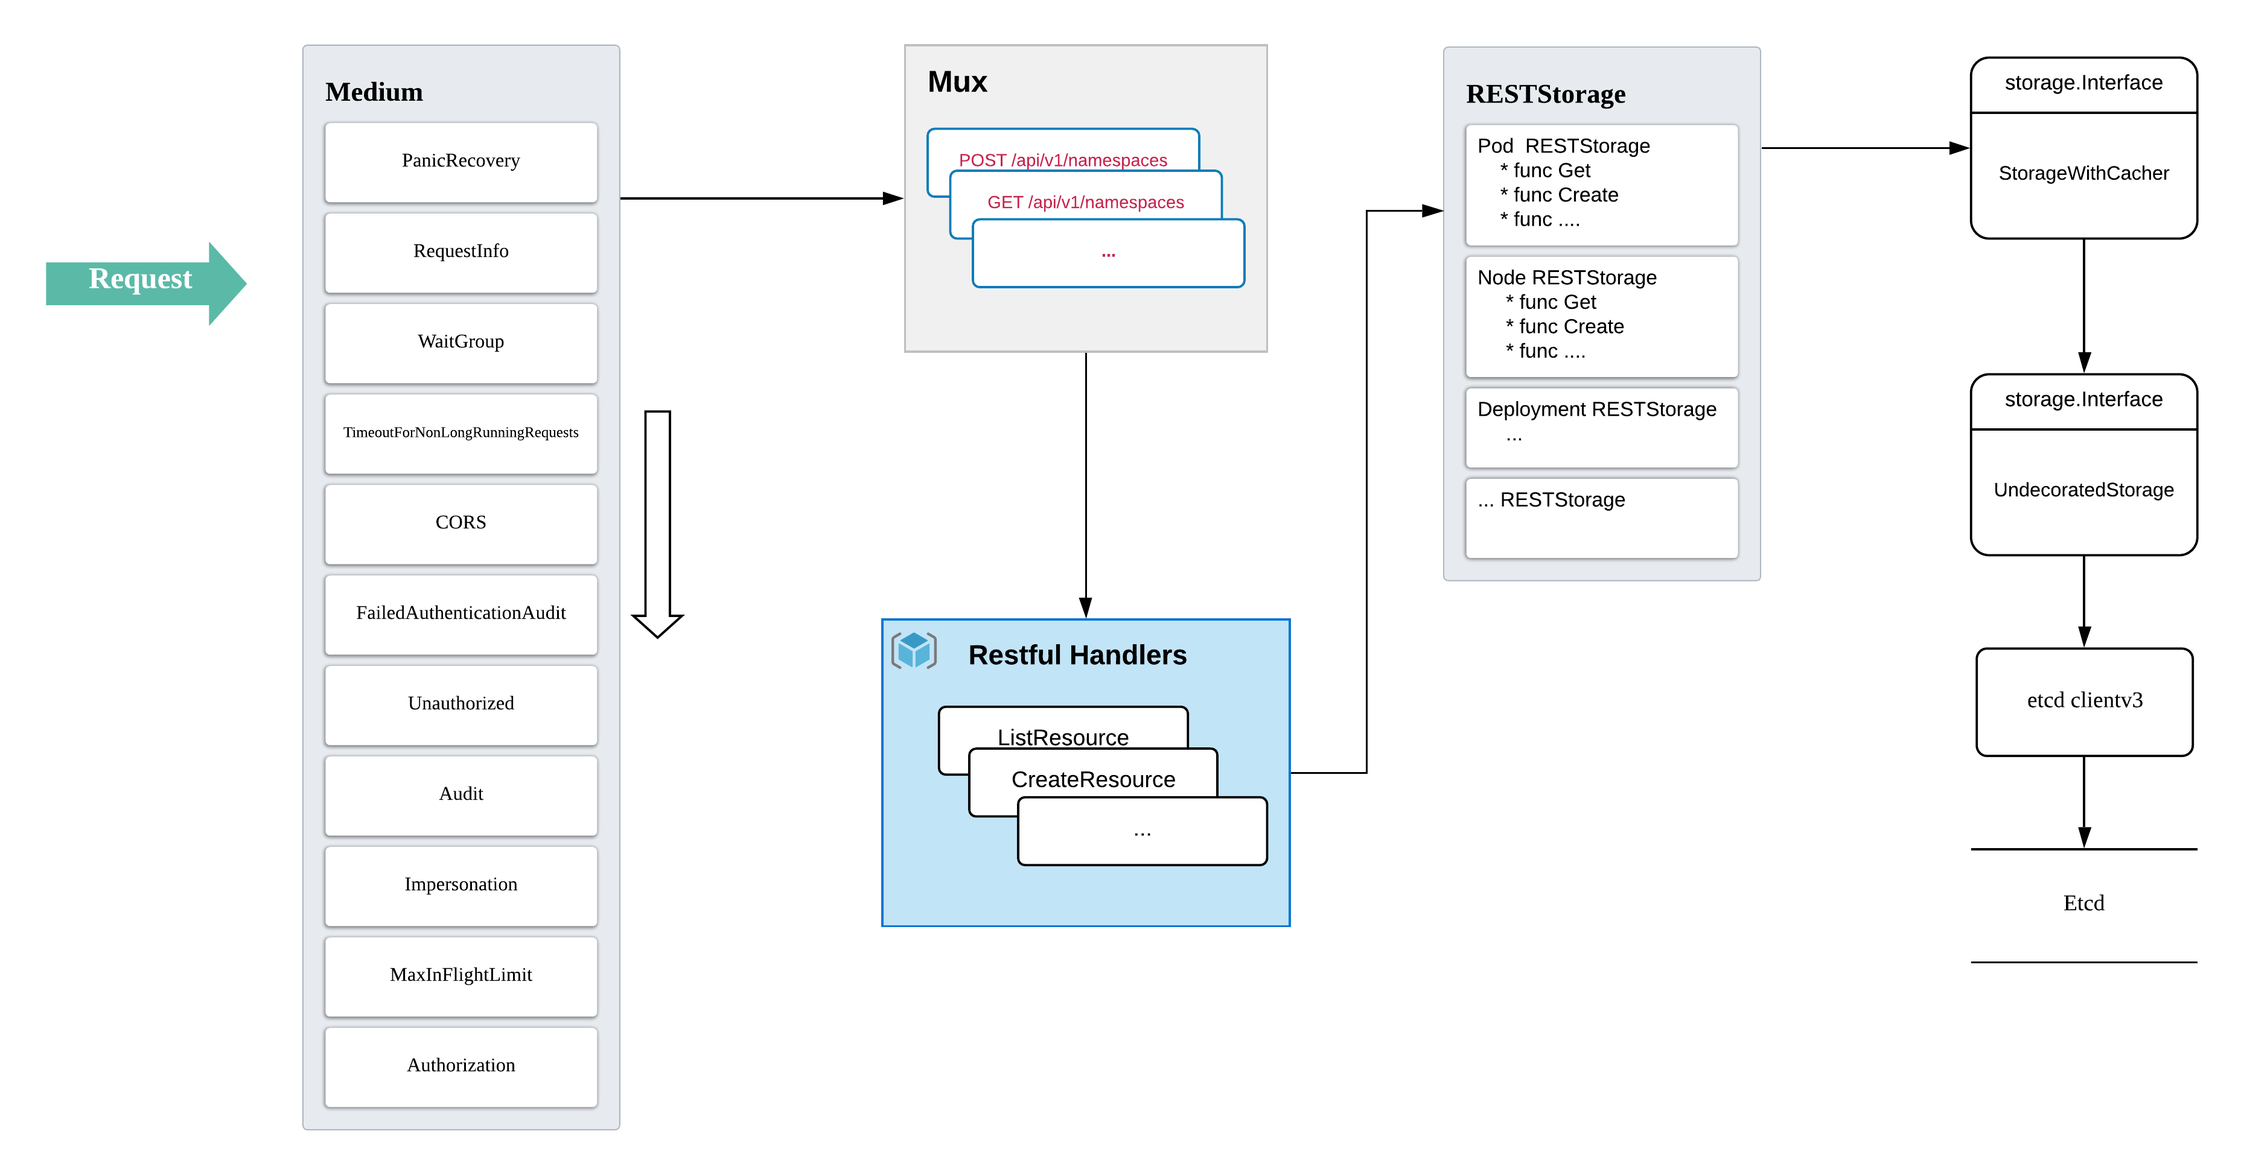
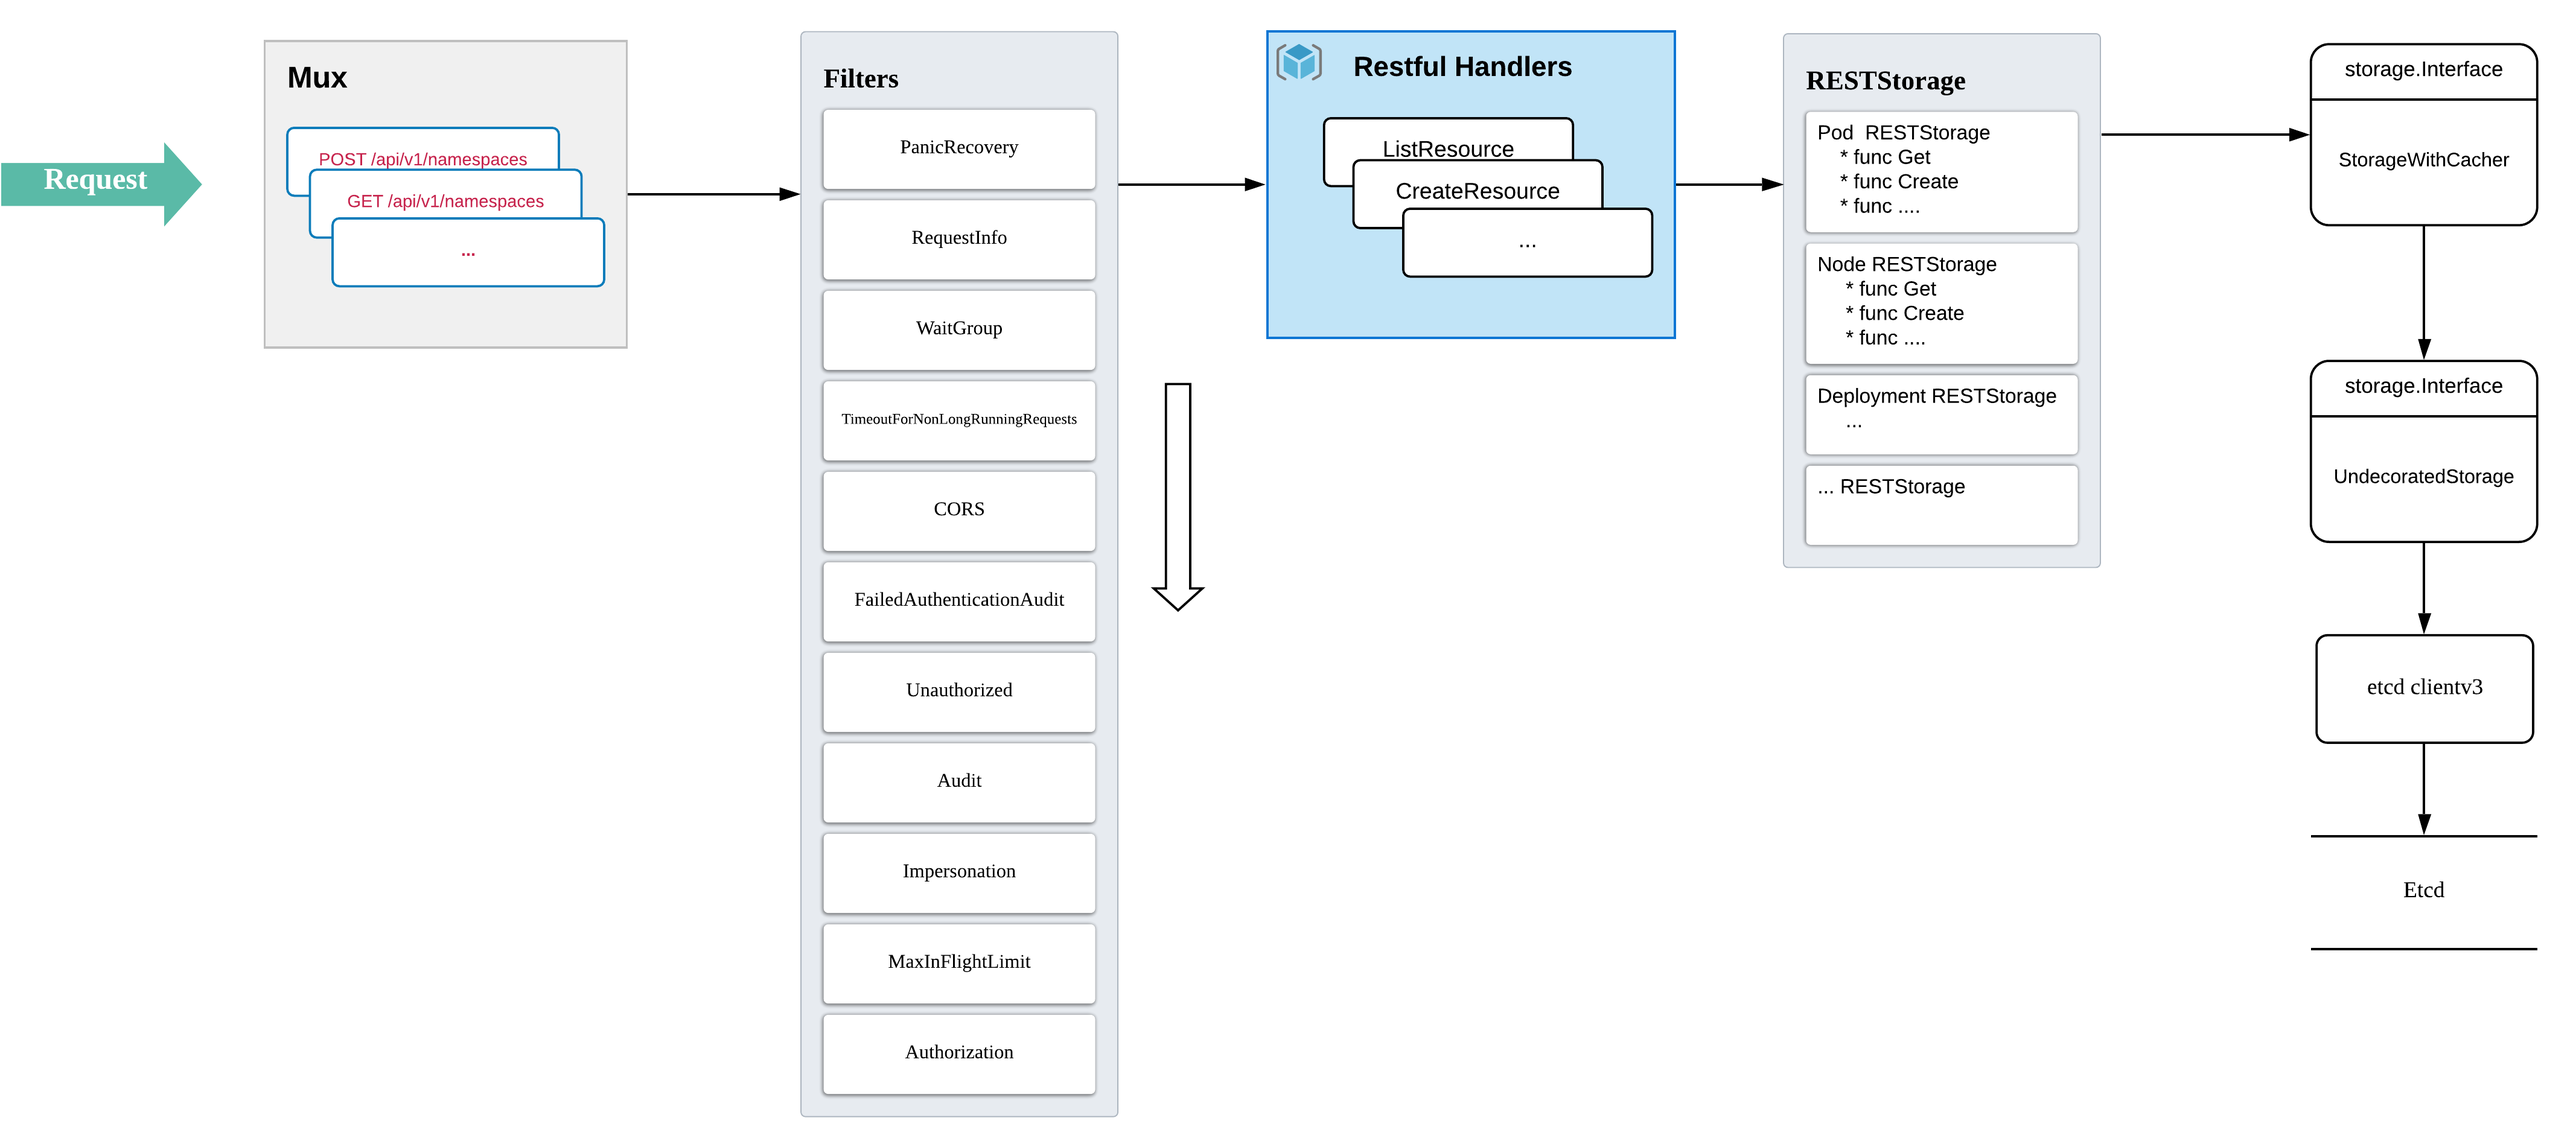
kube apiserver done

diff --git a/01-apiserver/README.md b/01-apiserver/README.md
@@ -1,7 +1,6 @@
 # Code Structure
-01 ~ 06:  
+![](../images/kube-apiserver-arch.png)
+
 
 # Request Flow
-
-05 ~ 07: how a request is handled
 ![](../images/request-flow.png)
